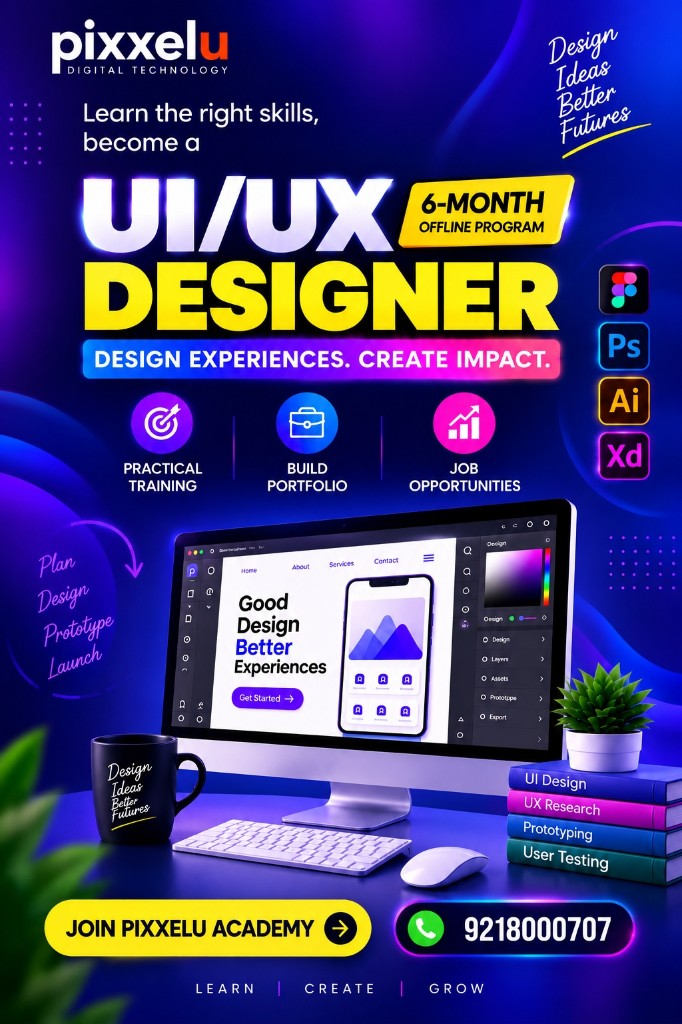
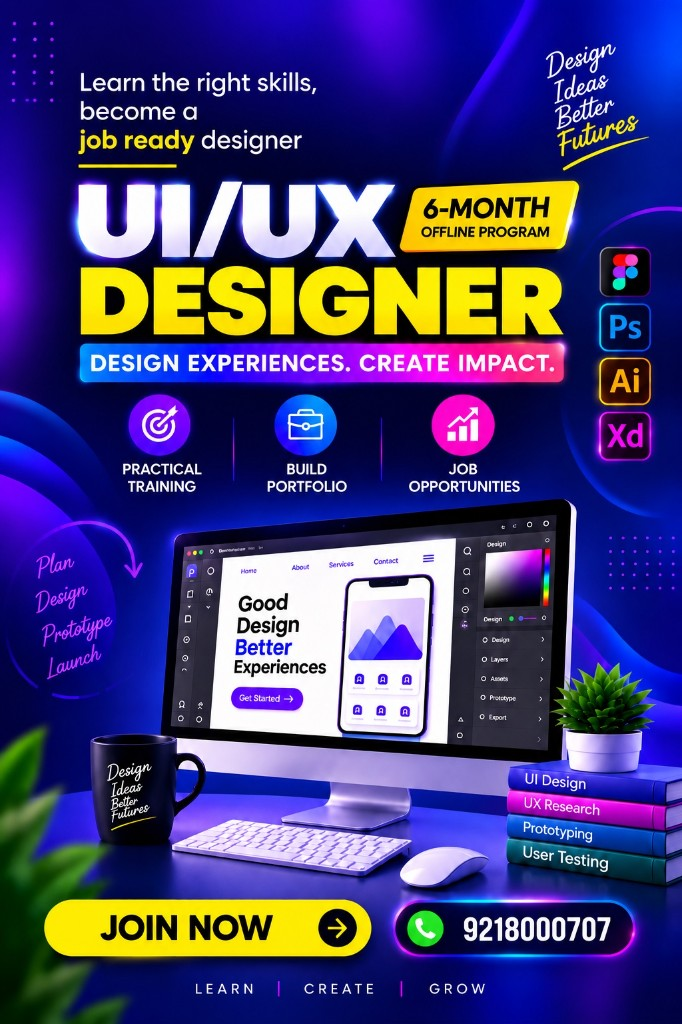
new

diff --git a/src/index.css b/src/index.css
@@ -2033,7 +2033,11 @@ details.faq-item p {
     min-width: 0;
     flex-direction: row;
     align-items: center;
-    gap: 8px;
+    gap: 16px;
+  }
+
+  .logo img {
+    height: 34px;
   }
 
   .header-divider {
@@ -2047,7 +2051,7 @@ details.faq-item p {
     white-space: nowrap;
     overflow: hidden;
     max-width: 100%;
-    font-size: 10px;
+    font-size: 12px;
     line-height: 1.25;
     letter-spacing: 0.04em;
   }
@@ -2063,13 +2067,13 @@ details.faq-item p {
 
   .ai-spark,
   .ai-spark svg {
-    width: 10px;
-    height: 10px;
+    width: 12px;
+    height: 12px;
   }
 
   .header-cta {
     flex-shrink: 0;
-    gap: 8px;
+    margin-left: auto;
   }
 
   .header-cta .pixxelu_button {
@@ -2079,11 +2083,11 @@ details.faq-item p {
   .header-phone {
     display: inline-flex;
     align-items: center;
-    gap: 6px;
+    gap: 7px;
     padding: 0;
     border: 0;
     background: none;
-    color: var(--accent);
+    color: #000;
     font-size: 13px;
     font-weight: 700;
     letter-spacing: 0.01em;
@@ -2093,14 +2097,71 @@ details.faq-item p {
     line-height: 1;
   }
 
-  .header-phone svg {
-    width: 16px;
-    height: 16px;
+  .header-call-icon {
+    position: relative;
+    width: 30px;
+    height: 30px;
     flex-shrink: 0;
+    display: grid;
+    place-items: center;
+    border-radius: 50%;
+    background: var(--accent);
+    color: #fff;
+  }
+
+  .header-call-icon svg {
+    position: relative;
+    z-index: 1;
+    width: 15px;
+    height: 15px;
+    animation: header-call-shake 1.4s ease-in-out infinite;
+  }
+
+  .header-call-wave {
+    position: absolute;
+    inset: -3px;
+    border: 2px solid var(--accent);
+    border-radius: 50%;
+    opacity: 0;
+    animation: header-call-ring 1.6s ease-out infinite;
+  }
+
+  .header-call-wave:nth-child(2) {
+    animation-delay: 0.55s;
   }
 
   .header-phone:hover {
     color: #000;
+  }
+
+  @keyframes header-call-ring {
+    0% {
+      transform: scale(0.7);
+      opacity: 0.7;
+    }
+    100% {
+      transform: scale(1.45);
+      opacity: 0;
+    }
+  }
+
+  @keyframes header-call-shake {
+    0%,
+    100% {
+      transform: rotate(0deg);
+    }
+    20% {
+      transform: rotate(-14deg);
+    }
+    40% {
+      transform: rotate(12deg);
+    }
+    60% {
+      transform: rotate(-8deg);
+    }
+    80% {
+      transform: rotate(6deg);
+    }
   }
   .container,
   .footer-float {
@@ -2243,7 +2304,7 @@ details.faq-item p {
   }
 
   .logo img {
-    height: 24px;
+    height: 32px;
     width: auto;
   }
 
@@ -2253,23 +2314,19 @@ details.faq-item p {
 
   .header-phone {
     font-size: 12px;
-  }
-
-  .header-phone svg {
-    width: 15px;
-    height: 15px;
+    color: #000;
   }
 
   .header-tagline,
   .header-tagline-city,
   .ai-letters {
-    font-size: 9px;
+    font-size: 11px;
   }
 
   .ai-spark,
   .ai-spark svg {
-    width: 9px;
-    height: 9px;
+    width: 11px;
+    height: 11px;
   }
 
   .hero h1 {

diff --git a/src/components/MobileBannerSlider.jsx b/src/components/MobileBannerSlider.jsx
@@ -4,14 +4,33 @@ import "./MobileBannerSlider.css";
 const SLIDES = [
   {
     src: "/mobile-banners/banner-01.jpg",
-    alt: "UI/UX Designer 6-month offline program at Pixxelu Academy",
+    alt: "UI/UX Designer 6-month offline program",
+  },
+  {
+    src: "/mobile-banners/banner-02.jpg",
+    alt: "Full Stack Web Development course",
+  },
+  {
+    src: "/mobile-banners/banner-03.jpg",
+    alt: "Web Development course",
+  },
+  {
+    src: "/mobile-banners/banner-04.jpg",
+    alt: "Graphic Design course",
+  },
+  {
+    src: "/mobile-banners/banner-05.jpg",
+    alt: "AI-Powered Web Design course",
   },
 ];
 
 export default function MobileBannerSlider() {
   const [index, setIndex] = useState(0);
+  const [dragX, setDragX] = useState(0);
+  const [dragging, setDragging] = useState(false);
   const paused = useRef(false);
   const startX = useRef(0);
+  const dragXRef = useRef(0);
   const many = SLIDES.length > 1;
 
   const goTo = useCallback((next) => {
@@ -27,28 +46,46 @@ export default function MobileBannerSlider() {
   }, [many]);
 
   function onPointerDown(event) {
+    if (!many) return;
+    event.currentTarget.setPointerCapture(event.pointerId);
     startX.current = event.clientX;
+    dragXRef.current = 0;
+    paused.current = true;
+    setDragging(true);
   }
 
-  function onPointerUp(event) {
-    if (!many) return;
-    const delta = event.clientX - startX.current;
+  function onPointerMove(event) {
+    if (!dragging) return;
+    const next = event.clientX - startX.current;
+    dragXRef.current = next;
+    setDragX(next);
+  }
+
+  function endDrag() {
+    if (!dragging) return;
+    const delta = dragXRef.current;
     if (delta > 50) goTo(index - 1);
     else if (delta < -50) goTo(index + 1);
+    dragXRef.current = 0;
+    setDragX(0);
+    setDragging(false);
+    paused.current = false;
   }
 
   return (
-    <section className="mobile-banner" aria-label="Course banners">
+    <section
+      className={`mobile-banner${dragging ? " is-dragging" : ""}`}
+      aria-label="Course banners"
+      onPointerDown={onPointerDown}
+      onPointerMove={onPointerMove}
+      onPointerUp={endDrag}
+      onPointerCancel={endDrag}
+    >
       <div
         className="mobile-track"
-        style={{ transform: `translateX(-${index * 100}%)` }}
-        onPointerDown={onPointerDown}
-        onPointerUp={onPointerUp}
-        onTouchStart={() => {
-          paused.current = true;
-        }}
-        onTouchEnd={() => {
-          paused.current = false;
+        style={{
+          transform: `translateX(calc(-${index * 100}% + ${dragX}px))`,
+          transition: dragging ? "none" : "transform 0.45s ease",
         }}
       >
         {SLIDES.map((slide) => (

diff --git a/src/components/Header.jsx b/src/components/Header.jsx
@@ -60,6 +60,8 @@ export default function Header({ onOpenDemo }) {
               >
                 Book Now Free Demo
               </a>
+              <span className="topbar-divider" aria-hidden="true" />
+              <a href="tel:+919218000707">Call Us +91 92180 00707</a>
             </div>
           ))}
         </div>
@@ -122,16 +124,17 @@ export default function Header({ onOpenDemo }) {
             <Button type="button" onClick={onOpenDemo}>
               Free Demo
             </Button>
-            <a className="header-phone" href="tel:+919218000707">
-              <svg viewBox="0 0 24 24" fill="none" aria-hidden="true">
-                <path
-                  d="M7.4 3.8h2.7l1.1 3.2-1.7 1.2a12.4 12.4 0 0 0 6.3 6.3l1.2-1.7 3.2 1.1v2.7c0 .7-.6 1.3-1.3 1.3C10.8 18 6 13.2 6 7.1c0-.8.6-1.3 1.4-1.3Z"
-                  stroke="currentColor"
-                  strokeWidth="1.8"
-                  strokeLinejoin="round"
-                />
-              </svg>
-              <span>92180 00707</span>
+            <a className="header-phone" href="tel:+919218000707" aria-label="Call 92180 00707">
+              <span className="header-call-icon" aria-hidden="true">
+                <span className="header-call-wave" />
+                <span className="header-call-wave" />
+                <svg viewBox="0 0 24 24" fill="none">
+                  <path
+                    d="M8.2 4.4c.3-.3.8-.4 1.2-.2l2.2 1.1c.4.2.6.6.5 1.1l-.4 2.1c0 .3-.2.6-.5.7l-1.3.6a11 11 0 0 0 5.3 5.3l.6-1.3c.2-.3.5-.4.8-.5l2.1-.4c.4-.1.9.1 1.1.5l1.1 2.2c.2.4.1.9-.2 1.2l-1.2 1.2c-.4.4-1 .6-1.6.5C12.2 18.7 5.3 11.8 5.1 6.2c-.1-.6.1-1.2.5-1.6L8.2 4.4Z"
+                    fill="#fff"
+                  />
+                </svg>
+              </span>
             </a>
           </div>
         </div>

diff --git a/src/components/BannerSlider.jsx b/src/components/BannerSlider.jsx
@@ -5,7 +5,7 @@ export const BANNER_SLIDES = [
   { src: "/banners/slider01.jpg", alt: "UI/UX Designer course" },
   { src: "/banners/slider02.jpg", alt: "Full Stack Web Development course" },
   { src: "/banners/slider03.jpg", alt: "Graphic Design course" },
-  { src: "/banners/slider04.jpg", alt: "UI/UX Designer program" },
+  { src: "/banners/slider04.jpg", alt: "AI-Powered Web Design course" },
   { src: "/banners/slider05.jpg", alt: "Web Development course" },
 ];
 

diff --git a/src/components/MobileBannerSlider.css b/src/components/MobileBannerSlider.css
@@ -3,13 +3,19 @@
   position: relative;
   overflow: hidden;
   background: #fff;
+  cursor: grab;
+  user-select: none;
+  touch-action: pan-y;
+}
+
+.mobile-banner.is-dragging {
+  cursor: grabbing;
 }
 
 .mobile-track {
   display: flex;
   align-items: flex-start;
-  transition: transform 0.55s ease;
-  touch-action: pan-y;
+  transition: transform 0.45s ease;
 }
 
 .m-slide {
